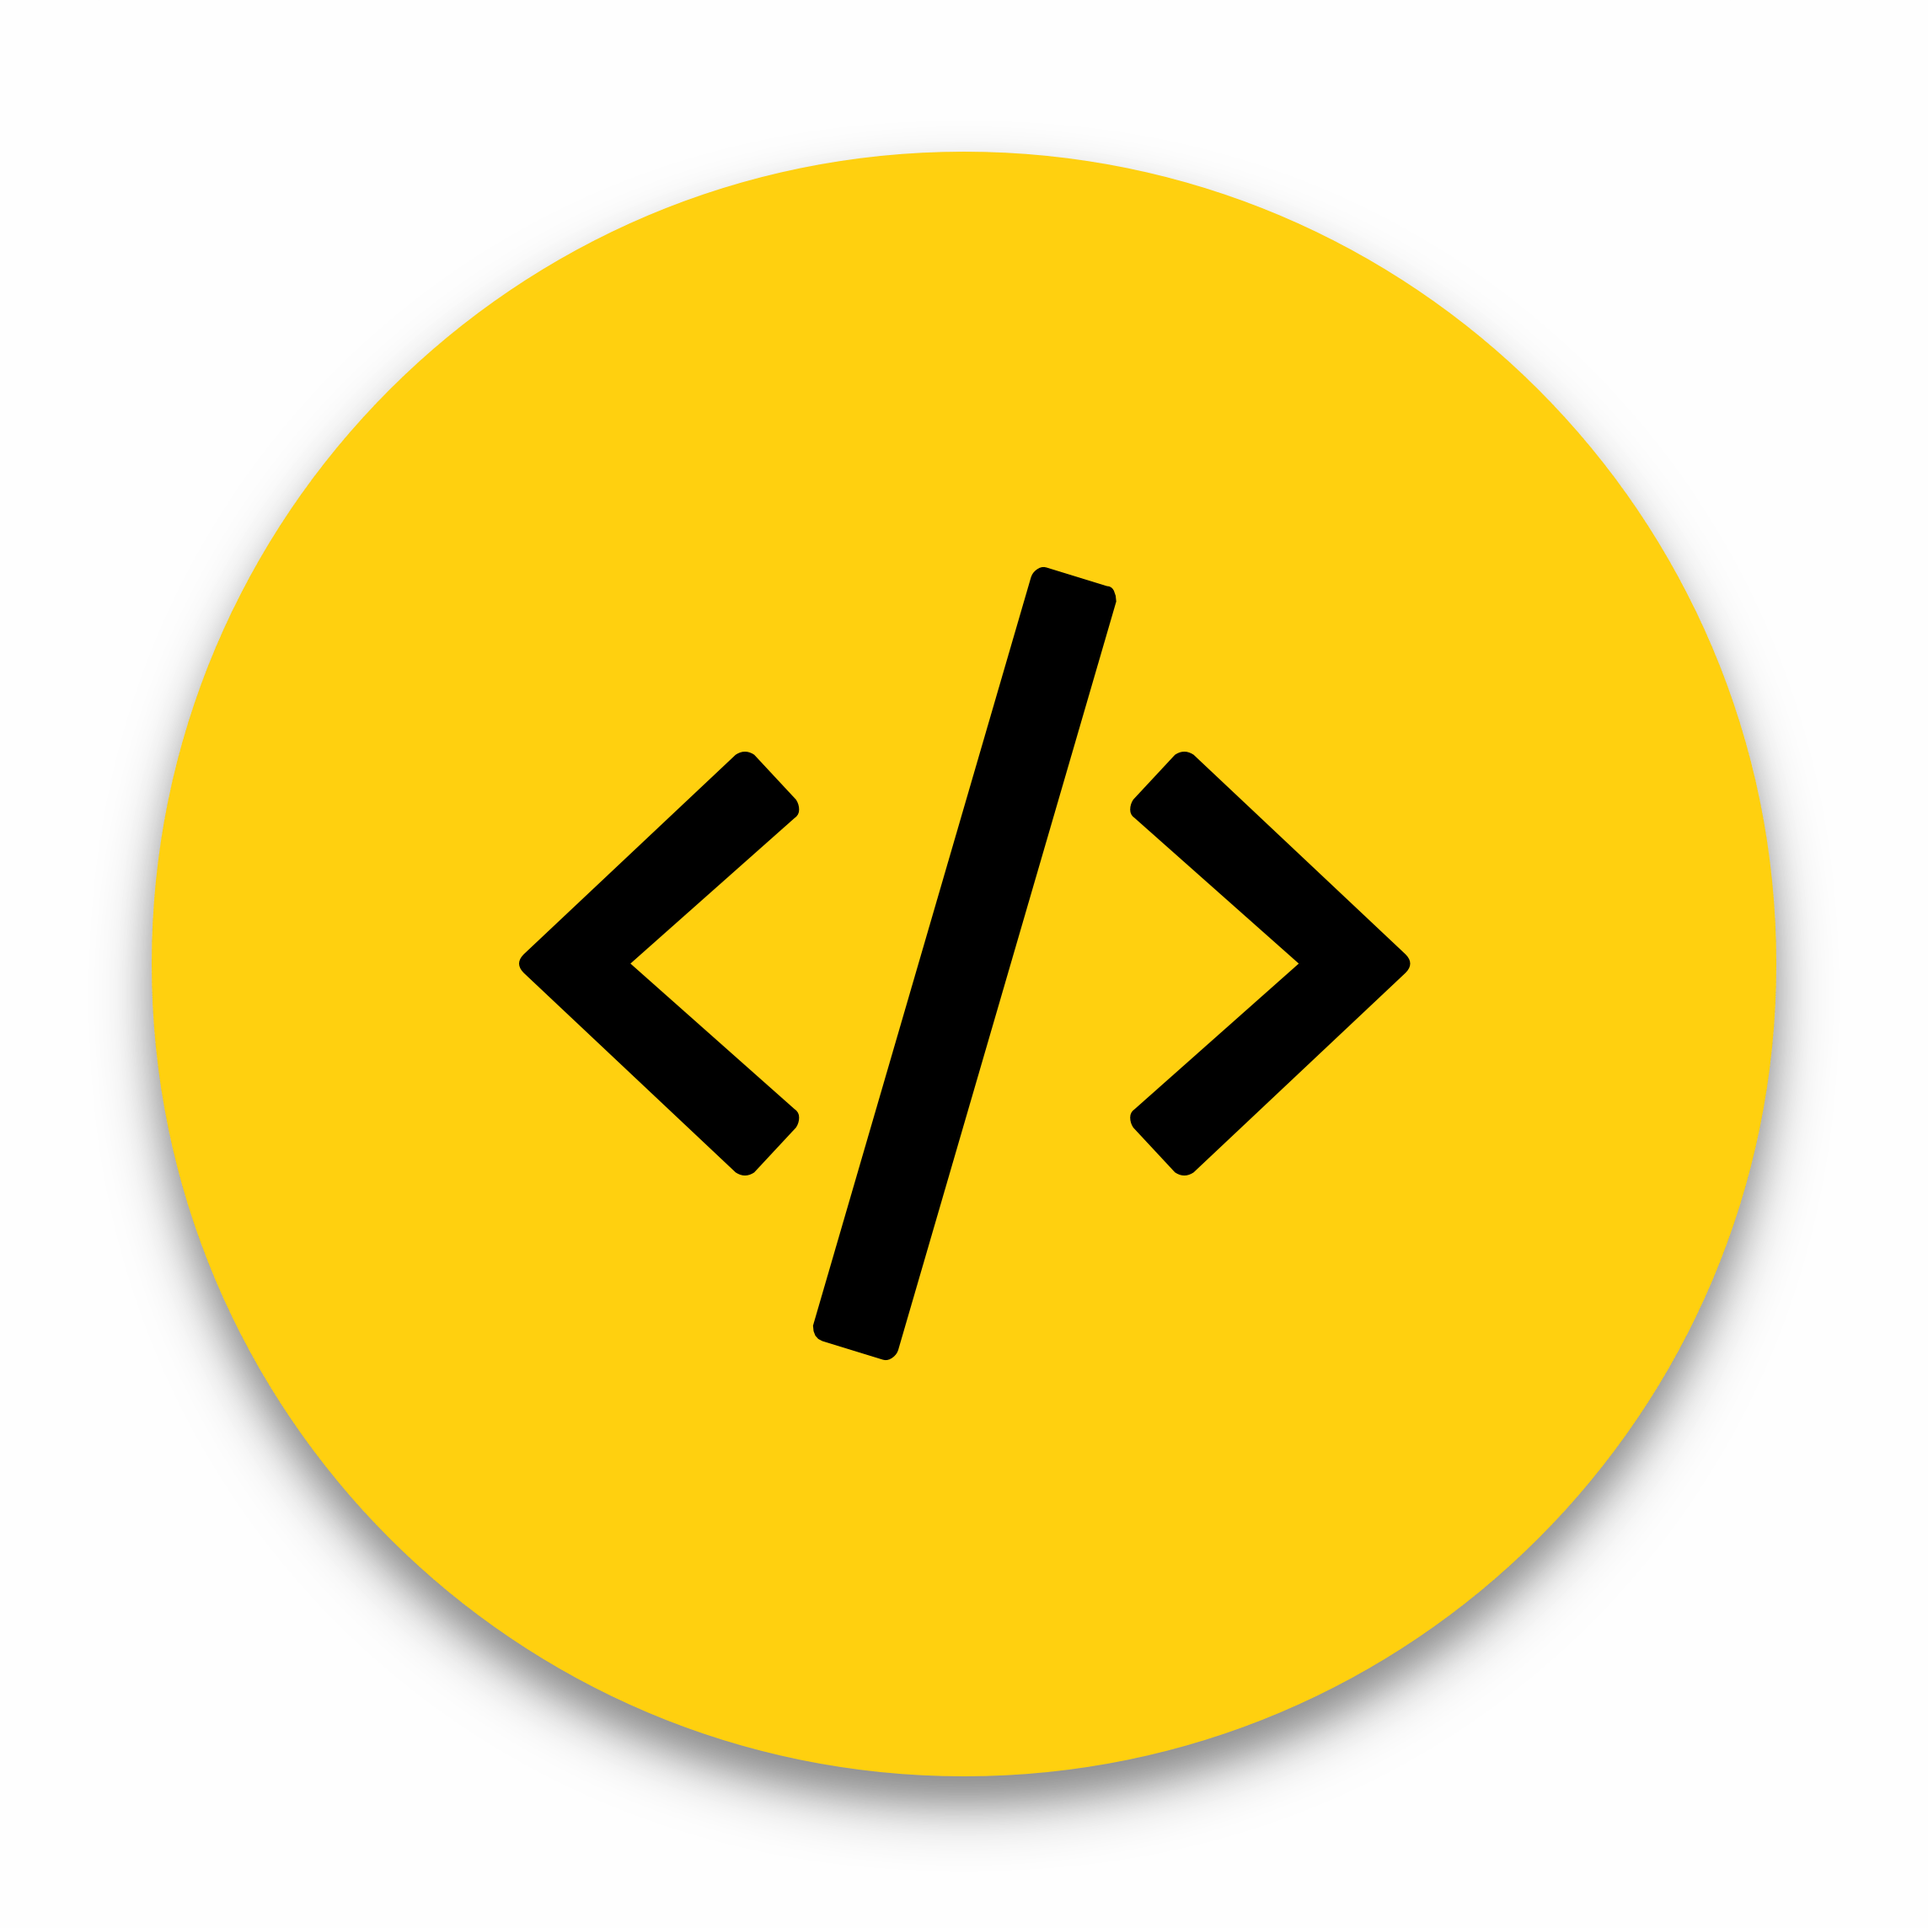
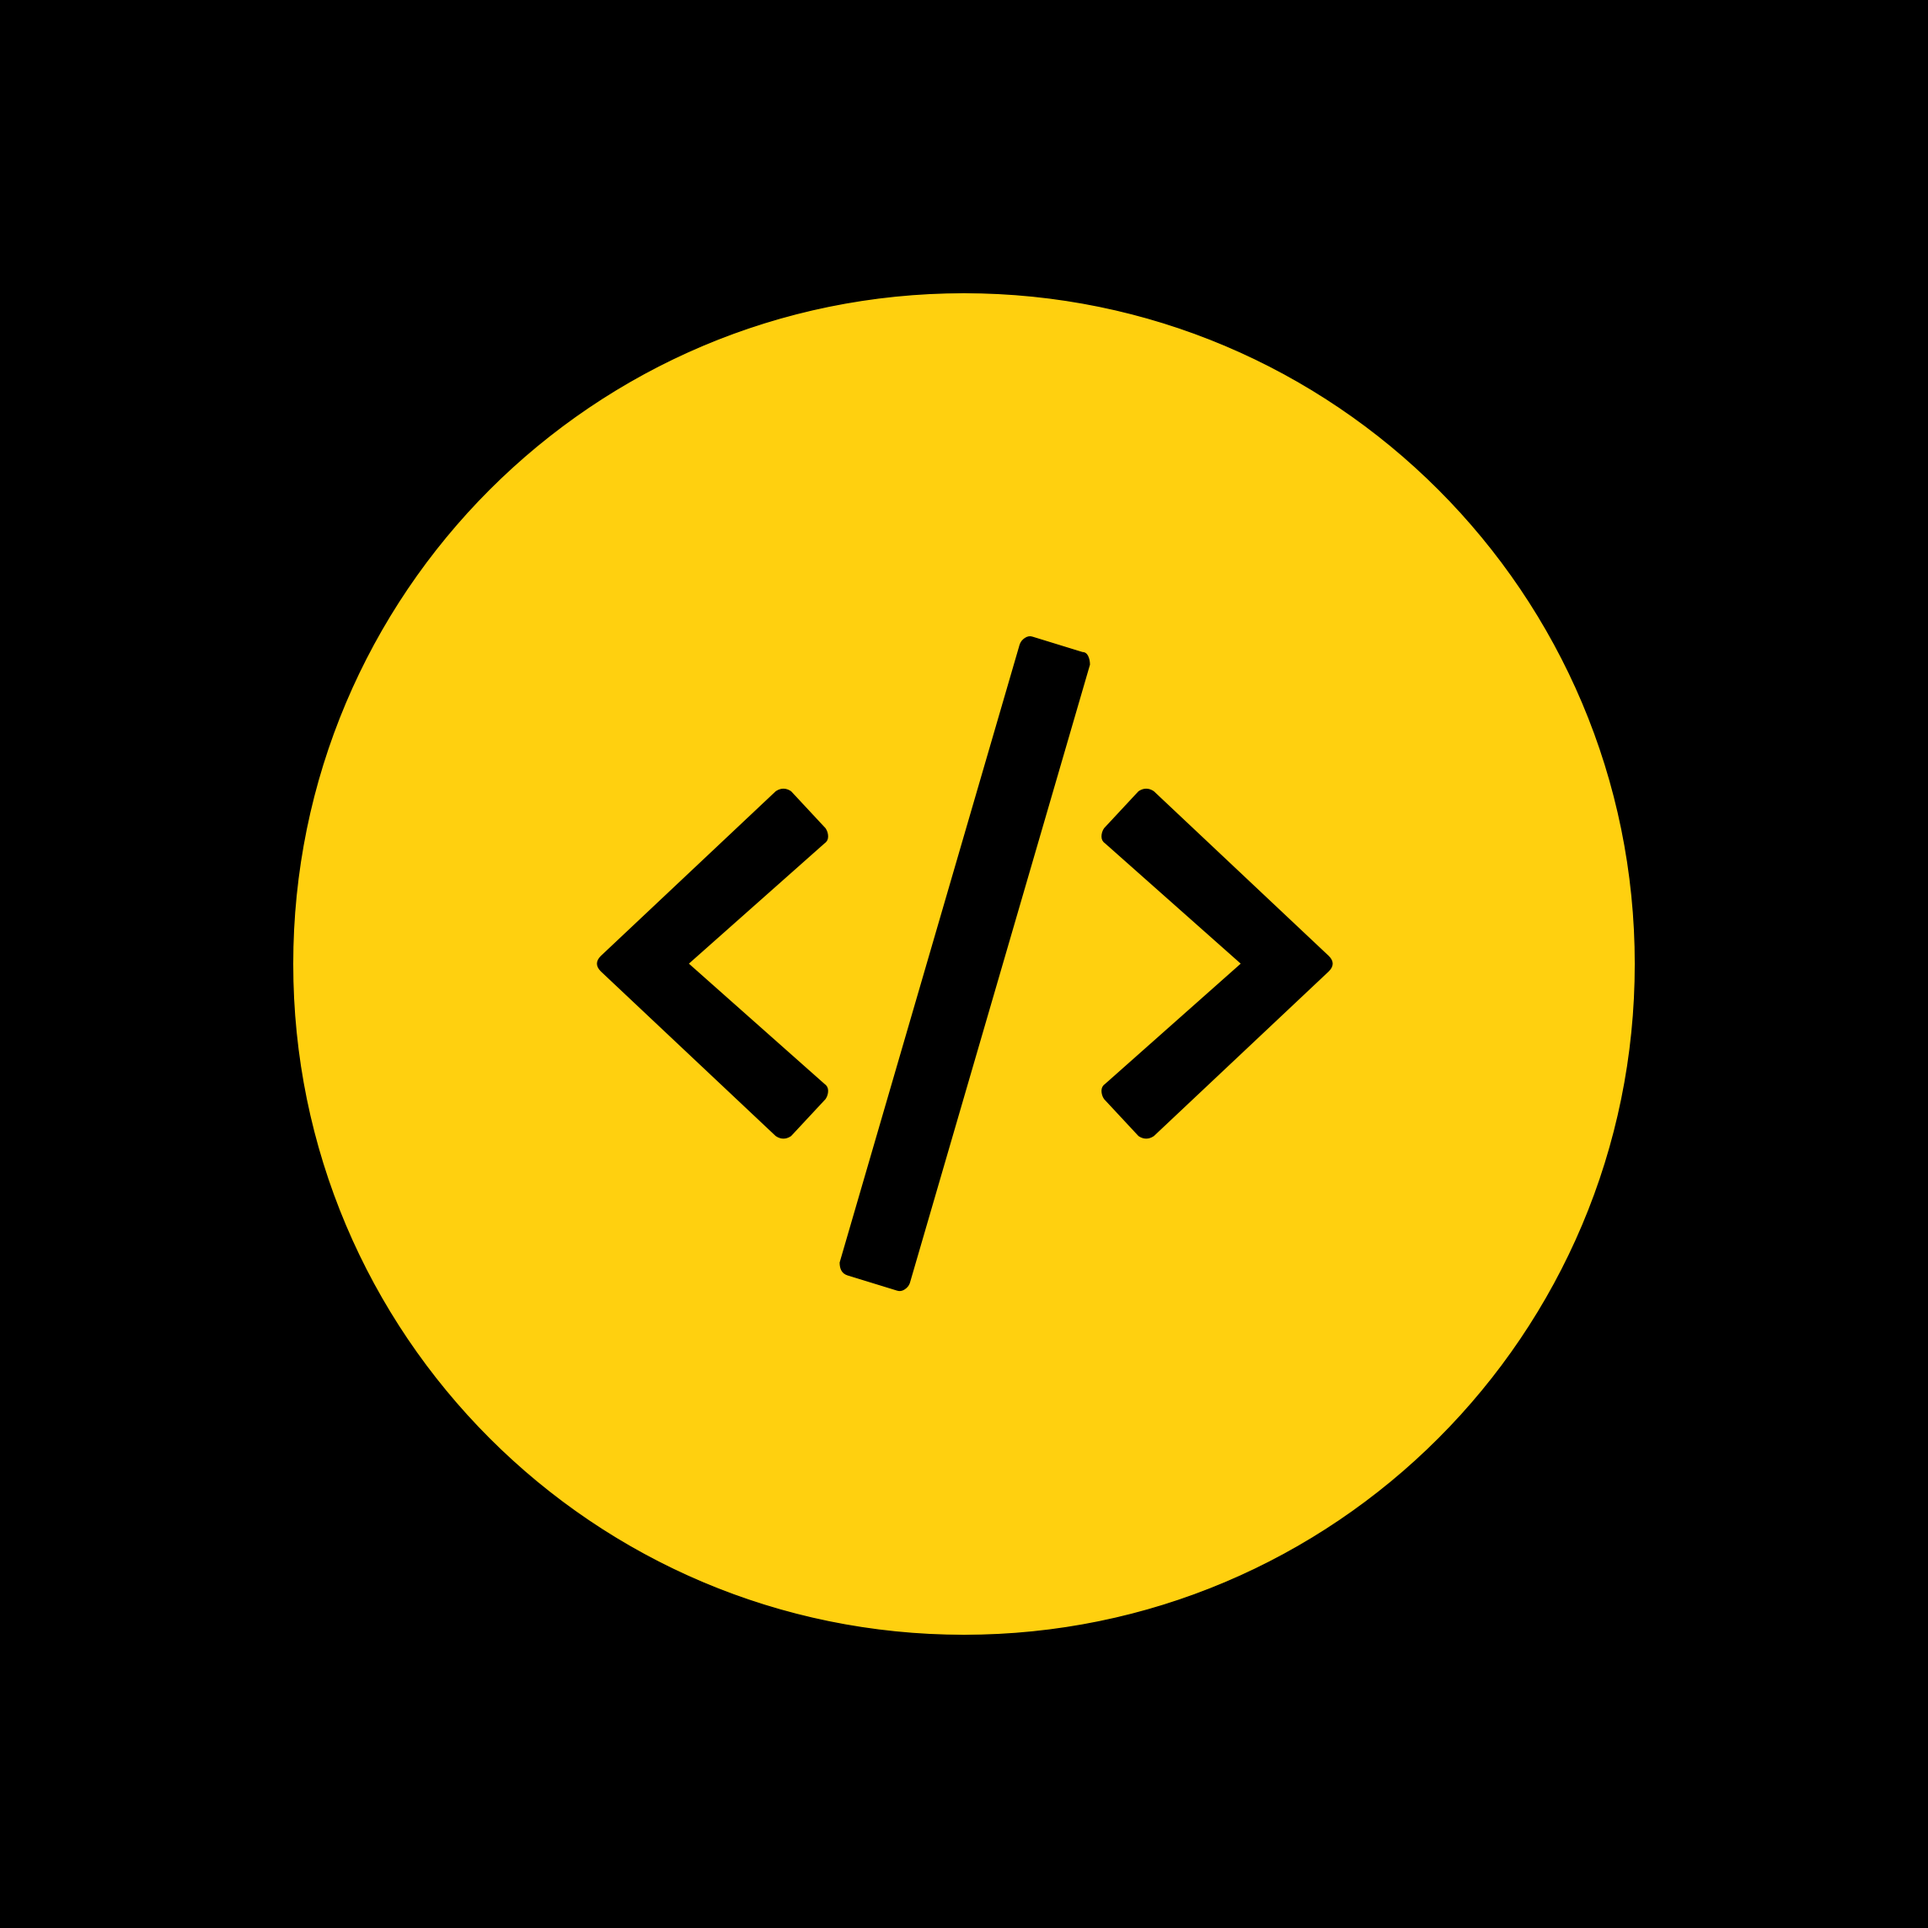
new case study

diff --git a/_sass/components/_components.projects.scss b/_sass/components/_components.projects.scss
@@ -1,12 +1,17 @@
 
 .c-project__container {
+  background: black;
   width: 100%;
   display:grid;
   grid-template-columns: 50% 50%;
   grid-row: auto auto;
   grid-column-gap: 0;
   grid-row-gap: 0;
+  flex-wrap:wrap;
   margin-bottom: 0!important;
+  @media (min-width: 100em) {
+    grid-template-columns: 20% 20% 20% 20% 20%;
+  }
   @include mq($until: tablet) {
     grid-template-columns: 100%;
   }
@@ -17,6 +22,7 @@
   display:flex;
   align-items:center;
   justify-content:center;
+  flex-grow: 1;
   margin-bottom: 0!important;
   a {
     width: 100%;

diff --git a/_layouts/home.html b/_layouts/home.html
@@ -63,7 +63,7 @@ layout: default
 
       </div>
 
-      <div class="o-layout__item u-2/3@desktop u-2/3@tablet o-spacer__bottom--large">
+      <div class="o-layout__item u-2/3@desktop u-2/3@tablet">
         <a class="c-hero-button c-hero-button--white" href="/contact">Get in Touch</a>
       </div>
     </div>

diff --git a/_projects/musk-case-study.md b/_projects/musk-case-study.md
@@ -1,0 +1,15 @@
+---
+layout: page
+type: project
+heading: "Case Study"
+title:  "Case Study: Validating Elon Musk’s News Website Idea"
+summary: "Using Lean UX Design methodology to determine if Elon Musk’s news rating site Pravda is a valid product idea"
+image: MuskCaseStudyPreview.jpg
+date:   2018-08-10
+categories: design
+code: 'muskcasestudy'
+cta: 'Read Case Study'
+---
+<script>
+  window.location.replace('https://medium.com/@kirbyyardley/case-study-validating-elon-musks-news-website-idea-6ccdfe3a2ae0');
+</script>

diff --git a/_projects/splithero.md b/_projects/splithero.md
@@ -5,7 +5,7 @@ heading: "Case Study"
 title:  "SplitHero: A UX Case Study"
 summary: "The app that allows users to easily split up their dinner bill."
 image: CheckSplitPreview.png
-date:   2018-08-13
+date:   2018-08-12
 categories: design
 code: 'splithero'
 cta: 'Read Case Study'
